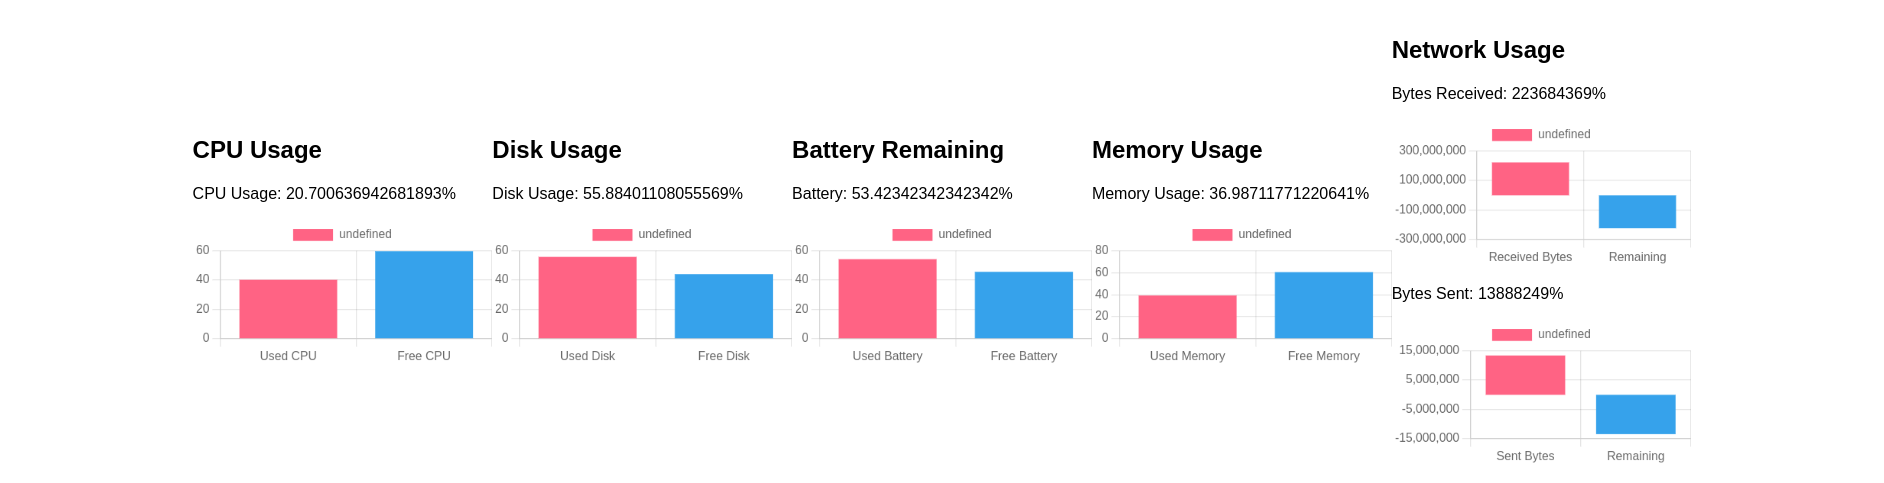
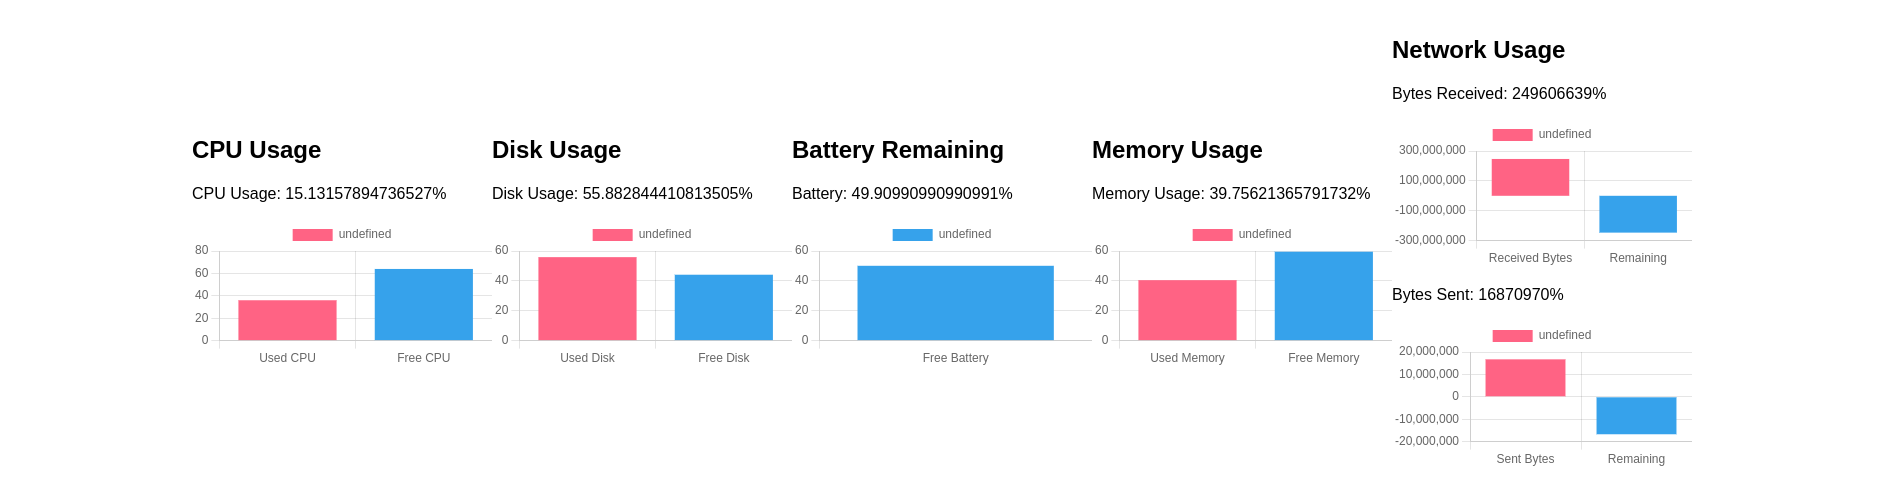
baterry chart

diff --git a/frontend/src/app/battery-usage/battery-usage.component.ts b/frontend/src/app/battery-usage/battery-usage.component.ts
@@ -16,10 +16,10 @@ import { ApiService } from '../api.service';
 export class BatteryUsageComponent implements OnInit {
   battery: number | null = null;
   pieChartData: ChartConfiguration<'pie'>['data'] = {
-    labels: [ 'Used Battery', 'Free Battery'],
+    labels: [ 'Free Battery'],
     datasets: [{
-      data: [0, 100], 
-      backgroundColor: [ '#FF6384', '#36A2EB']
+      data: [ 100], 
+      backgroundColor: [  '#36A2EB']
     }]
   };
   pieChartOptions: ChartOptions<'pie'> = {
